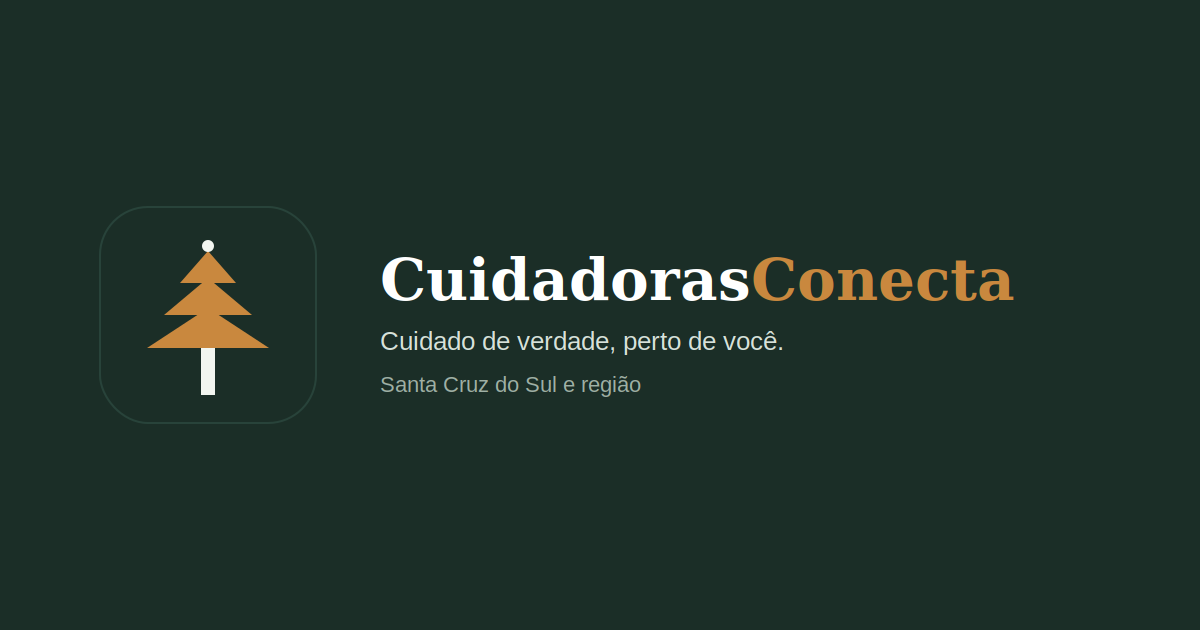
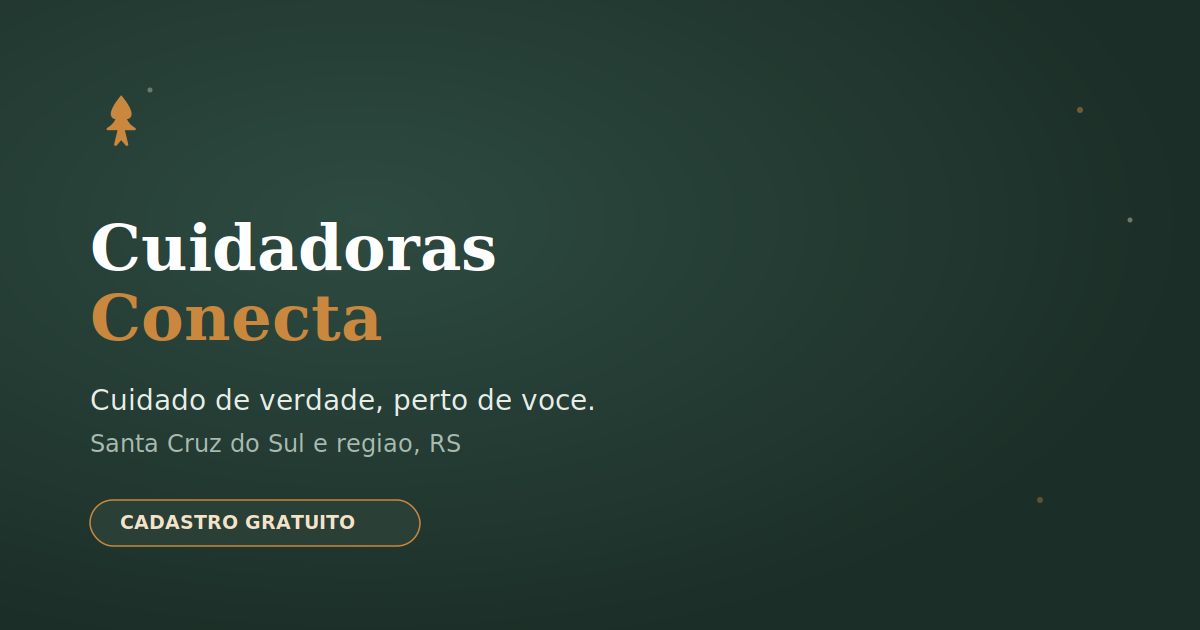
Add files via upload

diff --git a/index.html b/index.html
@@ -3,7 +3,7 @@
 <head>
 <meta charset="UTF-8">
 <meta name="viewport" content="width=device-width, initial-scale=1.0">
-<title>Cuidadoras Conecta - Cuidadoras de idosos em Santa Cruz do Sul e região</title>
+<title>Cuidadoras Conecta · Cuidadoras de idosos em Santa Cruz do Sul e região</title>
 <meta name="description" content="Encontre cuidadoras de idosos e acompanhantes hospitalares de confiança em Santa Cruz do Sul, Vera Cruz, Sinimbu, Rio Pardinho e Rio Pardo. Cadastro gratuito para cuidadoras, busca gratuita para famílias.">
 <meta name="robots" content="index, follow">
 <link rel="canonical" href="https://cuidadoras-conecta-rs.vercel.app/">
@@ -11,7 +11,7 @@
 <!-- Open Graph -->
 <meta property="og:type" content="website">
 <meta property="og:site_name" content="Cuidadoras Conecta">
-<meta property="og:title" content="Cuidadoras Conecta - Cuidado de verdade, perto de você">
+<meta property="og:title" content="Cuidadoras Conecta · Cuidado de verdade, perto de você">
 <meta property="og:description" content="Conectamos famílias e cuidadoras de idosos / acompanhantes hospitalares em Santa Cruz do Sul e região. Cadastro gratuito, WhatsApp protegido.">
 <meta property="og:image" content="https://cuidadoras-conecta-rs.vercel.app/og-image.png">
 <meta property="og:locale" content="pt_BR">
@@ -19,7 +19,7 @@
 
 <!-- Twitter Card -->
 <meta name="twitter:card" content="summary_large_image">
-<meta name="twitter:title" content="Cuidadoras Conecta - Cuidado de verdade, perto de você">
+<meta name="twitter:title" content="Cuidadoras Conecta · Cuidado de verdade, perto de você">
 <meta name="twitter:description" content="Encontre cuidadoras de idosos e acompanhantes hospitalares de confiança em Santa Cruz do Sul e região.">
 <meta name="twitter:image" content="https://cuidadoras-conecta-rs.vercel.app/og-image.png">
 
@@ -193,7 +193,7 @@ footer{background:var(--pine-xdark); color:rgba(255,255,255,.6); padding:48px 24
 
 <!-- NAV -->
 <nav class="glass-nav">
-  <a class="nav-logo" href="index.html" aria-label="Cuidadoras Conecta - início">
+  <a class="nav-logo" href="index.html" aria-label="Cuidadoras Conecta, página inicial">
     <svg width="22" height="22" viewBox="0 0 24 24" fill="none" aria-hidden="true">
       <path d="M12 2C12 2 8 6.5 8 9.2C8 10.4 8.8 11.2 9.8 11.2C9.2 12.6 8.2 13.6 6.6 14.6C6.2 14.85 6.35 15.45 6.8 15.45H10.6L9.3 20.8C9.15 21.4 9.9 21.75 10.3 21.3L12 19.3L13.7 21.3C14.1 21.75 14.85 21.4 14.7 20.8L13.4 15.45H17.2C17.65 15.45 17.8 14.85 17.4 14.6C15.8 13.6 14.8 12.6 14.2 11.2C15.2 11.2 16 10.4 16 9.2C16 6.5 12 2 12 2Z" fill="var(--amber)"/>
     </svg>
@@ -211,7 +211,7 @@ footer{background:var(--pine-xdark); color:rgba(255,255,255,.6); padding:48px 24
 </nav>
 
 <main id="conteudo-principal">
-<!-- HERO - "Elo de Luz" -->
+<!-- HERO: "Elo de Luz" -->
 <section class="hero-connect">
   <!-- Camadas de silhueta de araucária (identidade regional, muito sutil) -->
   <div class="araucaria-layer layer-back" data-depth="0.6" aria-hidden="true">
@@ -234,10 +234,10 @@ footer{background:var(--pine-xdark); color:rgba(255,255,255,.6); padding:48px 24
   <div class="hero-content">
     <div class="hero-eyebrow">Santa Cruz do Sul e região</div>
     <h1>Cuidado de verdade, <em>perto de você.</em></h1>
-    <p class="hero-lead">Encontramos cuidadoras de idosos e acompanhantes hospitalares de confiança na sua cidade - e criamos uma conexão direta, sem intermediários, entre quem cuida e quem precisa de cuidado.</p>
+    <p class="hero-lead">Encontramos cuidadoras de idosos e acompanhantes hospitalares de confiança na sua cidade, e criamos uma conexão direta, sem intermediários, entre quem cuida e quem precisa de cuidado.</p>
     <div class="hero-btns">
       <a class="btn-hero-primary btn-premium" href="busca.html" style="background:var(--amber); color:#fff; border:none; border-radius:12px; padding:15px 28px; font-size:16px; font-weight:700; display:inline-block;">Buscar cuidadora agora</a>
-      <a class="btn-hero-outline btn-premium" href="cadastro.html" style="background:transparent; color:var(--pine-dark); border:2px solid rgba(40,67,58,.35); border-radius:12px; padding:15px 28px; font-size:16px; font-weight:700; display:inline-block;">Sou cuidadora - cadastrar</a>
+      <a class="btn-hero-outline btn-premium" href="cadastro.html" style="background:transparent; color:var(--pine-dark); border:2px solid rgba(40,67,58,.35); border-radius:12px; padding:15px 28px; font-size:16px; font-weight:700; display:inline-block;">Sou cuidadora, quero cadastrar</a>
     </div>
     <div class="hero-stats">
       <div class="hero-stat"><div class="num">5</div><div class="label">Cidades atendidas</div></div>
@@ -257,7 +257,7 @@ footer{background:var(--pine-xdark); color:rgba(255,255,255,.6); padding:48px 24
   <div class="container">
     <div class="section-eyebrow" data-aos="fade-up">Para quem é</div>
     <h2 class="section-title" data-aos="fade-up">Conectamos quem cuida<br>com quem precisa de cuidado.</h2>
-    <p class="section-lead" data-aos="fade-up">Seja você uma cuidadora que quer ser encontrada, ou uma família buscando apoio - o Cuidadoras Conecta está aqui.</p>
+    <p class="section-lead" data-aos="fade-up">Seja você uma cuidadora que quer ser encontrada ou uma família buscando apoio, o Cuidadoras Conecta está aqui.</p>
     <div class="audience-grid">
       <div class="audience-card card-premium" data-aos="fade-up" data-aos-delay="80">
         <img src="https://images.unsplash.com/photo-1773227055624-07b515ba87c5?w=700&q=80&auto=format&fit=crop" alt="Cuidadora ajudando idosa com andador" loading="lazy" width="700" height="260">
@@ -294,8 +294,8 @@ footer{background:var(--pine-xdark); color:rgba(255,255,255,.6); padding:48px 24
       <div class="how-step card-premium" data-aos="fade-up" data-aos-delay="160"><div class="num">3</div><h4>Fale pelo WhatsApp</h4><p>Você recebe o WhatsApp da cuidadora na hora. Combine os detalhes diretamente, sem intermediários.</p></div>
     </div>
     <div class="how-steps" id="steps-cuidadora" role="tabpanel">
-      <div class="how-step card-premium"><div class="num">1</div><h4>Cadastre seu perfil</h4><p>Preencha suas informações - experiência, valores, especialidades e disponibilidade. É gratuito e leva menos de 5 minutos.</p></div>
-      <div class="how-step card-premium"><div class="num">2</div><h4>Aguarde a aprovação</h4><p>Revisamos seu cadastro e ativamos seu perfil em breve. Você não precisa fazer nada - avisamos quando estiver no ar.</p></div>
+      <div class="how-step card-premium"><div class="num">1</div><h4>Cadastre seu perfil</h4><p>Preencha suas informações: experiência, valores, especialidades e disponibilidade. É gratuito e leva menos de 5 minutos.</p></div>
+      <div class="how-step card-premium"><div class="num">2</div><h4>Aguarde a aprovação</h4><p>Revisamos seu cadastro e ativamos seu perfil em breve. Você não precisa fazer nada, avisamos quando estiver no ar.</p></div>
       <div class="how-step card-premium"><div class="num">3</div><h4>Receba contatos</h4><p>Famílias interessadas entram em contato direto com você pelo WhatsApp. Sem taxa, sem comissão, sem complicação.</p></div>
     </div>
   </div>
@@ -312,7 +312,7 @@ footer{background:var(--pine-xdark); color:rgba(255,255,255,.6); padding:48px 24
       <div class="trust-item card-premium" data-aos="fade-up">
         <div class="icon-badge"><svg viewBox="0 0 24 24" fill="none"><rect x="5" y="11" width="14" height="9" rx="2" stroke="currentColor" stroke-width="1.7"/><path d="M8 11V7a4 4 0 018 0v4" stroke="currentColor" stroke-width="1.7" stroke-linecap="round"/></svg></div>
         <h3>WhatsApp protegido</h3>
-        <p>O número da cuidadora nunca aparece publicamente. Só é revelado após a família confirmar interesse - sem expor dados à toa.</p>
+        <p>O número da cuidadora nunca aparece publicamente. Só é revelado após a família confirmar interesse, sem expor dados à toa.</p>
       </div>
       <div class="trust-item card-premium" data-aos="fade-up" data-aos-delay="80">
         <div class="icon-badge"><svg viewBox="0 0 24 24" fill="none"><circle cx="12" cy="12" r="8.5" stroke="currentColor" stroke-width="1.7"/><path d="M8.5 12.3l2.4 2.4 4.6-5.2" stroke="currentColor" stroke-width="1.7" stroke-linecap="round" stroke-linejoin="round"/></svg></div>
@@ -351,7 +351,7 @@ footer{background:var(--pine-xdark); color:rgba(255,255,255,.6); padding:48px 24
       <div class="split-text" data-aos="fade-up">
         <div class="section-eyebrow">Pra você que cuida</div>
         <h2 class="section-title">Seu trabalho merece ser encontrado.</h2>
-        <p>Quantas famílias precisam exatamente do que você oferece - e simplesmente não sabem que você existe?</p>
+        <p>Quantas famílias precisam exatamente do que você oferece e simplesmente não sabem que você existe?</p>
         <p>No Cuidadoras Conecta, seu perfil fica visível para quem está buscando cuidadora agora, na sua cidade. Sem app pra baixar, sem mensalidade, sem complicação.</p>
         <a class="btn-premium" href="cadastro.html">Criar meu perfil grátis →</a>
       </div>
@@ -399,8 +399,7 @@ footer{background:var(--pine-xdark); color:rgba(255,255,255,.6); padding:48px 24
       </div>
     </div>
     <div class="footer-bottom">
-      <span>© 2026 Cuidadoras Conecta - apenas uma vitrine de divulgação.</span>
-      <span>Contato: <a style="color:rgba(255,255,255,.6)" href="mailto:[email redacted]">[email redacted]</a></span>
+      <span>© 2026 Cuidadoras Conecta. Apenas uma vitrine de divulgação.</span>
     </div>
   </div>
 </footer>

diff --git a/cadastro.html b/cadastro.html
@@ -3,7 +3,7 @@
 <head>
 <meta charset="UTF-8">
 <meta name="viewport" content="width=device-width, initial-scale=1.0">
-<title>Cadastro de cuidadora - Cuidadoras Conecta</title>
+<title>Cadastro de cuidadora · Cuidadoras Conecta</title>
 <meta name="description" content="Cadastre-se gratuitamente como cuidadora de idosos ou acompanhante hospitalar em Santa Cruz do Sul e região. Sem mensalidade, sem taxa de inscrição.">
 <meta name="robots" content="index, follow">
 <link rel="canonical" href="https://cuidadoras-conecta-rs.vercel.app/cadastro.html">
@@ -169,7 +169,7 @@
   <header class="hero" data-aos="fade-up">
     <span class="hero-eyebrow">Cadastro gratuito</span>
     <h1>Seu trabalho de cuidado merece ser encontrado.</h1>
-    <p>Cadastre seu perfil e famílias procurando cuidadoras de idosos e acompanhantes hospitalares vão te encontrar por aqui - sem mensalidade, sem taxa de inscrição.</p>
+    <p>Cadastre seu perfil e famílias procurando cuidadoras de idosos e acompanhantes hospitalares vão te encontrar por aqui, sem mensalidade e sem taxa de inscrição.</p>
     <div class="reassurance">
       <svg width="22" height="22" viewBox="0 0 24 24" fill="none"><path d="M12 2L4 5v6c0 5 3.5 8.5 8 11 4.5-2.5 8-6 8-11V5l-8-3z" stroke="#28433A" stroke-width="1.6" stroke-linejoin="round"/></svg>
       <p>Seu WhatsApp <strong>não aparece publicamente</strong>. Ele só é revelado para uma família depois que ela confirma interesse no seu perfil.</p>
@@ -252,7 +252,7 @@
         </div>
         <div class="field">
           <label>Cuidados que você sabe realizar</label>
-          <span class="hint">Marque o que se aplica - ajuda a família a entender se você atende a necessidade do paciente.</span>
+          <span class="hint">Marque o que se aplica: ajuda a família a entender se você atende a necessidade do paciente.</span>
           <div class="check-grid" data-group="especialidades" style="margin-top:10px;">
             <label class="check-item"><input type="checkbox" value="mobilidade_reduzida"><span>Mobilidade reduzida</span></label>
             <label class="check-item"><input type="checkbox" value="alzheimer_demencia"><span>Alzheimer / demência</span></label>
@@ -275,7 +275,7 @@
         </div>
         <div class="field">
           <label>Valores que você cobra</label>
-          <span class="hint">Preencha só o que se aplica ao seu trabalho - deixe o resto em branco.</span>
+          <span class="hint">Preencha só o que se aplica ao seu trabalho e deixe o resto em branco.</span>
         </div>
         <div class="row2">
           <div class="field">

diff --git a/privacidade.html b/privacidade.html
@@ -3,7 +3,7 @@
 <head>
 <meta charset="UTF-8">
 <meta name="viewport" content="width=device-width, initial-scale=1.0">
-<title>Política de Privacidade - Cuidadoras Conecta</title>
+<title>Política de Privacidade · Cuidadoras Conecta</title>
 <meta name="description" content="Política de Privacidade da plataforma Cuidadoras Conecta, em conformidade com a LGPD.">
 <meta name="robots" content="index, follow">
 <link rel="canonical" href="https://cuidadoras-conecta-rs.vercel.app/privacidade.html">
@@ -40,14 +40,14 @@
   </header>
 
   <article id="conteudo-privacidade">
-    <p>Esta Política de Privacidade explica como a Cuidadoras Conecta ("Plataforma") coleta, usa e protege dados pessoais, em conformidade com a Lei Geral de Proteção de Dados (Lei nº 13.709/2018 - LGPD).</p>
+    <p>Esta Política de Privacidade explica como a Cuidadoras Conecta ("Plataforma") coleta, usa e protege dados pessoais, em conformidade com a Lei Geral de Proteção de Dados (Lei nº 13.709/2018, a LGPD).</p>
 
     <h2>1. Quem é a controladora dos dados</h2>
     <p><strong>Cuidadoras Conecta</strong> é a controladora dos dados pessoais tratados neste site. Contato: <a href="mailto:[email redacted]">[email redacted]</a>.</p>
 
     <h2>2. Quais dados coletamos</h2>
     <p>De Cuidadoras, no momento do cadastro: nome completo, idade, cidade e estado, número de WhatsApp, anos de experiência, valores cobrados, especialidades, turnos disponíveis, descrição pessoal e, se enviada, foto de perfil.</p>
-    <p>De Famílias, no momento do desbloqueio de contato: um identificador de contato (e-mail ou telefone) e dados da transação de pagamento - o número completo do cartão e dados sensíveis de pagamento são processados pelo provedor de pagamento, não por nós.</p>
+    <p>De Famílias, no momento do desbloqueio de contato: um identificador de contato (e-mail ou telefone) e dados da transação de pagamento. O número completo do cartão e dados sensíveis de pagamento são processados pelo provedor de pagamento, não por nós.</p>
 
     <h2>3. Para que usamos esses dados</h2>
     <ul>
@@ -68,7 +68,7 @@
     <p>Conforme a LGPD, você pode solicitar, a qualquer momento: confirmação da existência de tratamento de dados, acesso aos seus dados, correção de dados incompletos ou desatualizados, anonimização ou exclusão de dados desnecessários, portabilidade dos dados e revogação do consentimento dado. Para exercer esses direitos, envie um pedido para <a href="mailto:[email redacted]">[email redacted]</a>; responderemos em até 15 dias.</p>
 
     <h2>6. Por quanto tempo guardamos os dados</h2>
-    <p>Os dados permanecem armazenados enquanto o cadastro estiver ativo na Plataforma. Após solicitação de exclusão, ou após um longo período de inatividade, os dados são removidos - exceto quando sua manutenção for exigida por obrigação legal.</p>
+    <p>Os dados permanecem armazenados enquanto o cadastro estiver ativo na Plataforma. Após solicitação de exclusão, ou após um longo período de inatividade, os dados são removidos, exceto quando sua manutenção for exigida por obrigação legal.</p>
 
     <h2>7. Segurança</h2>
     <p>Adotamos medidas técnicas para proteger os dados armazenados, incluindo controle de acesso ao banco de dados e restrição da exibição pública do número de WhatsApp até a confirmação do pagamento de desbloqueio.</p>

diff --git a/termos.html b/termos.html
@@ -3,7 +3,7 @@
 <head>
 <meta charset="UTF-8">
 <meta name="viewport" content="width=device-width, initial-scale=1.0">
-<title>Termos de Uso - Cuidadoras Conecta</title>
+<title>Termos de Uso · Cuidadoras Conecta</title>
 <meta name="description" content="Termos de Uso da plataforma Cuidadoras Conecta.">
 <meta name="robots" content="index, follow">
 <link rel="canonical" href="https://cuidadoras-conecta-rs.vercel.app/termos.html">
@@ -42,7 +42,7 @@
   <article id="conteudo-termos">
     <p>Estes Termos de Uso regulam o uso da plataforma Cuidadoras Conecta ("Plataforma") por cuidadoras de idosos, acompanhantes hospitalares ("Cuidadoras") e por pessoas que buscam esses serviços ("Famílias"). Ao se cadastrar ou usar a Plataforma, você concorda com estes termos.</p>
 
-    <h2>1. O que a Plataforma é - e o que ela não é</h2>
+    <h2>1. O que a Plataforma é, e o que ela não é</h2>
     <p>A Cuidadoras Conecta é uma vitrine de divulgação de perfis e um canal de contato entre Cuidadoras e Famílias. A Plataforma:</p>
     <ul>
       <li><strong>Não é</strong> uma agência de empregos, empresa de recursos humanos ou empregadora;</li>
@@ -54,7 +54,7 @@
     <ul>
       <li>O cadastro é gratuito e voluntário.</li>
       <li>Ao se cadastrar, a Cuidadora declara que todas as informações fornecidas (idade, experiência, valores, disponibilidade, especialidades, descrição) são verdadeiras e atualizadas, sendo de sua exclusiva responsabilidade.</li>
-      <li>A Plataforma pode revisar, recusar ou remover qualquer cadastro a qualquer momento, sem necessidade de justificativa prévia - especialmente em caso de suspeita de informação falsa ou uso indevido.</li>
+      <li>A Plataforma pode revisar, recusar ou remover qualquer cadastro a qualquer momento, sem necessidade de justificativa prévia, especialmente em caso de suspeita de informação falsa ou uso indevido.</li>
       <li>A Plataforma <strong>não realiza</strong> verificação de antecedentes criminais, checagem de referências profissionais, nem validação de diplomas ou certificações. Essa verificação é de responsabilidade exclusiva da Família, antes de qualquer contratação.</li>
     </ul>
 

diff --git a/admin.html b/admin.html
@@ -3,7 +3,7 @@
 <head>
 <meta charset="UTF-8">
 <meta name="viewport" content="width=device-width, initial-scale=1.0">
-<title>Painel Admin - Cuidadoras Conecta</title>
+<title>Painel Admin · Cuidadoras Conecta</title>
 <meta name="robots" content="noindex, nofollow">
 <link rel="icon" href="favicon.svg" type="image/svg+xml">
 <link rel="preconnect" href="https://fonts.googleapis.com">
@@ -143,7 +143,7 @@
 <div id="login-screen">
   <div class="login-box">
     <h1>Painel Admin</h1>
-    <p>Cuidadoras Conecta - acesso restrito</p>
+    <p>Cuidadoras Conecta, acesso restrito</p>
     <div class="field">
       <label for="email">E-mail</label>
       <input type="email" id="email" autocomplete="email" placeholder="[email redacted]">

diff --git a/busca.html b/busca.html
@@ -3,8 +3,8 @@
 <head>
 <meta charset="UTF-8">
 <meta name="viewport" content="width=device-width, initial-scale=1.0">
-<title>Buscar cuidadora - Cuidadoras Conecta</title>
-<meta name="description" content="Busque cuidadoras de idosos e acompanhantes hospitalares em Santa Cruz do Sul e região. Filtre por cidade, turno e especialidade - busca 100% gratuita.">
+<title>Buscar cuidadora · Cuidadoras Conecta</title>
+<meta name="description" content="Busque cuidadoras de idosos e acompanhantes hospitalares em Santa Cruz do Sul e região. Filtre por cidade, turno e especialidade. Busca 100% gratuita.">
 <meta name="robots" content="index, follow">
 <link rel="canonical" href="https://cuidadoras-conecta-rs.vercel.app/busca.html">
 <link rel="icon" href="favicon.svg" type="image/svg+xml">

diff --git a/enhance.css b/enhance.css
@@ -1,5 +1,5 @@
 /* ============================================================
-   Cuidadoras Conecta — Camada de evolução visual (aditiva)
+   Cuidadoras Conecta - Camada de evolução visual (aditiva)
    Não remove nem sobrescreve regras funcionais de styles.css.
    ============================================================ */
 

diff --git a/enhance.js b/enhance.js
@@ -1,5 +1,5 @@
 /* ============================================================
-   Cuidadoras Conecta — comportamentos compartilhados de UI
+   Cuidadoras Conecta - comportamentos compartilhados de UI
    (não contém nenhuma lógica de negócio / integração)
    ============================================================ */
 (function () {

diff --git a/hero-scene.js b/hero-scene.js
@@ -1,5 +1,5 @@
 /* ============================================================
-   Hero "Elo de Luz" — Cuidadoras Conecta
+   Hero "Elo de Luz" - Cuidadoras Conecta
    Cena Three.js leve e sutil: dois pontos de luz (família e
    cuidadora) conectados por um filamento que pulsa lentamente.
    - Inicialização tardia (lazy) e só se WebGL estiver disponível